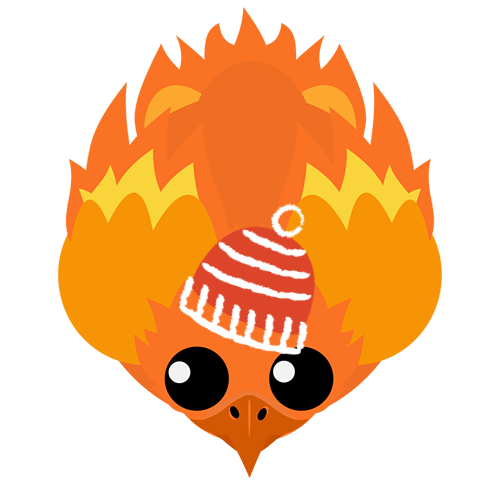
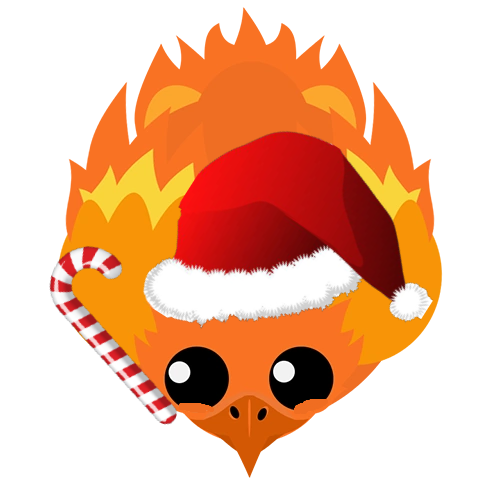
🛬🗼 Checkpoint ./mope/index.html:39269466/272

diff --git a/mope/index.html b/mope/index.html
@@ -100,6 +100,12 @@
 <div id="startMenuWrapper" style="display: block;">
 <div id="updates">
 <div id="updatesDiv">
+  <h2>New Update!
+  <ul>
+  <li>Christmas has come to mope sandbox have fun with the skins that you will add and those that will be added CREDITS TO Y-YASSINE.
+  <ul>
+  <li>1v1 command removed
+reason: i broke it xd
   <h2>past updates
   <ul>
   <li>Hello everyone, I have not announced some updates that I have made during this month and the previous one:
